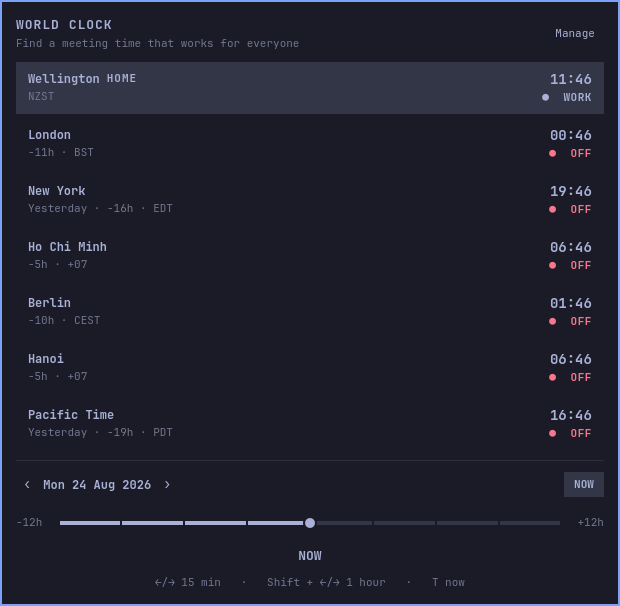
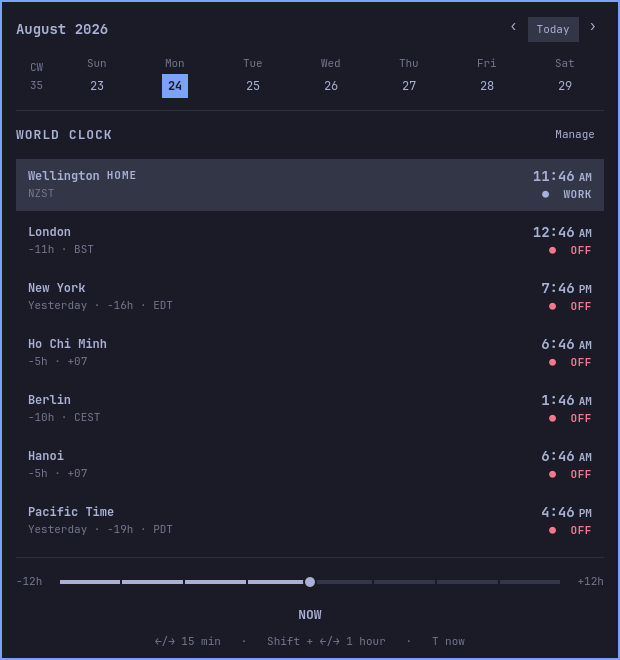
docs: refresh calendar-first UI preview

diff --git a/README.md b/README.md
@@ -46,7 +46,8 @@ Time (`America/Los_Angeles`, so it follows PST/PDT automatically).
 - Drag or scroll the slider to move all clocks in 15-minute steps.
 - Press Left/Right for 15 minutes; hold Shift for one hour.
 - Press `T` or click `NOW` to return to the live current instant.
-- Use the date arrows to plan on another local calendar date in the home timezone.
+- Click a day in the calendar strip to plan on that home-timezone date.
+- Use the calendar arrows to move one week at a time, or click `Today` to return.
 - Click `Manage` to rename, reorder, remove, or change the home location.
 - Click `Add location` and search by a city such as `London` or an IANA ID such as `Europe/London`.
 
